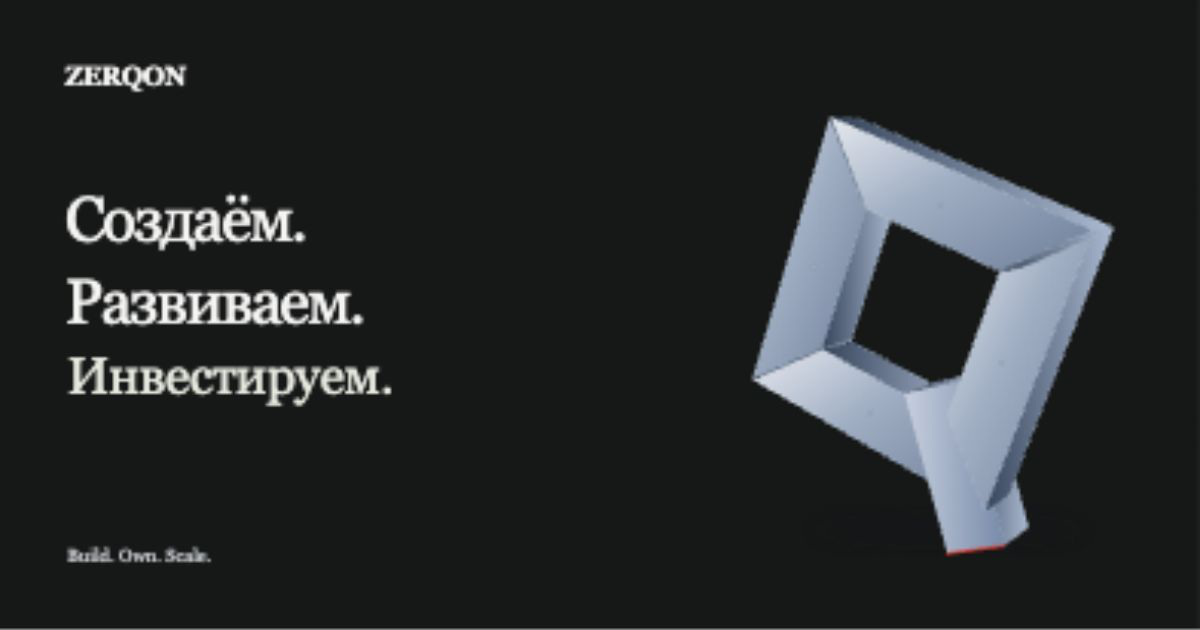
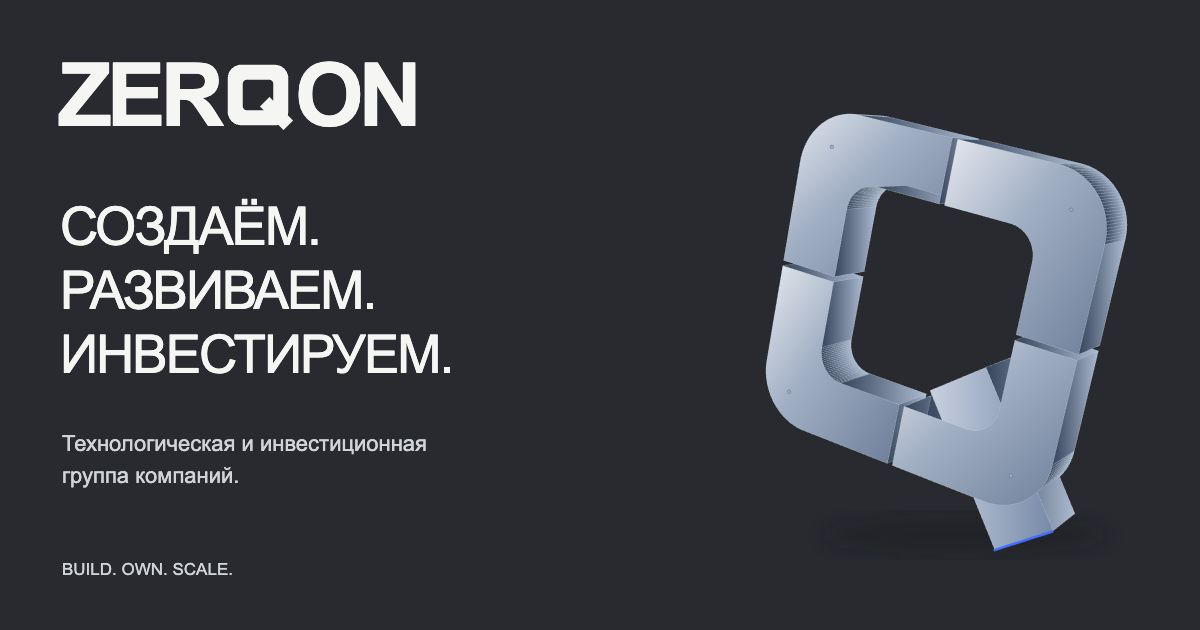
fsdfё

diff --git a/src/product-scene.ts b/src/product-scene.ts
@@ -20,6 +20,7 @@ export function initProductScene(container:HTMLElement){
  const blue=new T.MeshPhysicalMaterial({color:0x4169ff,metalness:.8,roughness:.21,clearcoat:.45});
  const orange=new T.MeshStandardMaterial({color:0xf16c32,metalness:.45,roughness:.28});
  const layers:T.Group[]=[];const hospitality=container.classList.contains('assembly-visual');
+ const detailScene=!!container.closest('.detail-hero'),baseScale=detailScene?.86:1.15,baseY=detailScene?-.3:0;
  function mesh(geometry:T.BufferGeometry,material:T.Material,parent:T.Object3D=group,x=0,y=0,z=0){const m=new T.Mesh(geometry,material);m.position.set(x,y,z);parent.add(m);return m;}
  if(hospitality){
   for(let i=0;i<4;i++){const layer=new T.Group();group.add(layer);layers.push(layer);}
@@ -33,14 +34,14 @@ export function initProductScene(container:HTMLElement){
   mesh(new T.TorusGeometry(.47,.035,16,80),silver,layers[3],0,.2,.065);mesh(new T.CircleGeometry(.39,64),dark,layers[3],0,.2,.067);mesh(new T.BoxGeometry(.028,.14,.025),orange,layers[3],0,.63,.1);
   // An engraved geometric mark rather than a fabricated product interface.
   for(let i=0;i<5;i++)mesh(new T.BoxGeometry(.045,.09+(i%2)*.05,.01),silver,layers[3],-.15+i*.075,-.93,.042);
-  group.rotation.set(-.46,.3,-.42);group.scale.setScalar(container.closest('.detail-hero')?.86:1.15);group.position.y=container.closest('.detail-hero')?-.3:0;
+  group.rotation.set(-.46,.3,-.42);group.scale.setScalar(baseScale);group.position.y=baseY;
  }else{
   const placements=[[-.85,.45,-.1,.05,-.45,-.48],[.65,-.25,.23,.55,.58,.52],[-1.9,-.95,-.35,.1,-.3,-.45]];
   placements.forEach((v,i)=>{const link=mesh(frame(i===2?1.05:1.8,i===2?1.4:2.45,.38,i===2?.21:.29,.3),i===1?blue:silver);link.position.set(v[0],v[1],v[2]);link.rotation.set(v[3],v[4],v[5]);});
   group.scale.setScalar(1.02);
  }
  // Each object has one bounded inspection sequence, independent of scroll velocity.
- const viewport=matchMedia('(min-width:1001px)');let visible=false,raf=0,disposed=false,healthy=true,elapsed=0,last=performance.now(),replaying=false,finished=false;
+ const viewport=matchMedia('(min-width:1001px)');let visible=false,raf=0,disposed=false,healthy=true,elapsed=0,last=performance.now(),replaying=false,finished=false,started=false;
  const smooth=(x:number)=>T.MathUtils.smootherstep(x,0,1);
  const button=container.closest('.project')?.querySelector<HTMLButtonElement>('.replay-motion');
  const buttonState=(busy:boolean)=>{if(!button)return;button.disabled=busy;button.setAttribute('aria-busy',String(busy));button.innerHTML=busy?'Сборка устройства…':'Повторить сборку <span aria-hidden="true">↻</span>';};buttonState(true);
@@ -48,14 +49,14 @@ export function initProductScene(container:HTMLElement){
   const dt=Math.min(.04,Math.max(.001,(now-last)/1000));last=now;const duration=hospitality?(replaying?3.6:3):1.5;elapsed=Math.min(duration,elapsed+dt);
   let p=1;if(hospitality)p=replaying?(elapsed<1?1-smooth(elapsed):elapsed<1.35?0:smooth((elapsed-1.35)/2.25)):smooth((elapsed-.4)/2.6);
   const arc=Math.sin(elapsed/duration*Math.PI);
-  if(hospitality){layers.forEach((layer,i)=>layer.position.z=i*.13+(1-p)*i*.5);group.rotation.set(-.46,.375-arc*.12,-.42);camera.position.set(.08-arc*.13,.15,10.25+arc*.2);}
+  if(hospitality){group.scale.setScalar(baseScale*(.8+.2*p));group.position.y=baseY-(1-p)*.12;layers.forEach((layer,i)=>layer.position.z=i*.13+(1-p)*i*.5);group.rotation.set(-.46,.375-arc*.12,-.42);camera.position.set(.08-arc*.13,.15,10.25+arc*.2);}
   else{group.rotation.set(0,.125-(1-smooth(elapsed/duration))*.2,0);camera.position.set(0,0,10.15+(1-smooth(elapsed/duration))*.2);}
   const phase=p<.2?'exploded':p>.995?'assembled':'assembling';if(container.dataset.phase!==phase)container.dataset.phase=phase;
   camera.lookAt(0,0,hospitality?.45:0);renderer.render(scene,camera);container.classList.add('product-webgl-ready');finished=elapsed>=duration;if(finished)buttonState(false);else request();
  }
  function request(){if(!raf&&!disposed){raf=requestAnimationFrame(draw);}}
  const replay=()=>{if(!finished)return;elapsed=0;last=performance.now();replaying=true;finished=false;buttonState(true);request();};button?.addEventListener('click',replay);
- const observer=new IntersectionObserver(entries=>{visible=entries[0].isIntersecting;if(visible){last=performance.now();request();}else{cancelAnimationFrame(raf);raf=0;}},{rootMargin:'80px'});observer.observe(container);
+ const observer=new IntersectionObserver(entries=>{visible=entries[entries.length-1].isIntersecting;if(visible){started=true;last=performance.now();request();}else{cancelAnimationFrame(raf);raf=0;container.classList.remove('product-webgl-ready');if(started&&!finished){elapsed=hospitality?(replaying?3.6:3):1.5;finished=true;container.dataset.phase='assembled';buttonState(false);}}});observer.observe(container);
  const resize=new ResizeObserver(()=>{const r=container.getBoundingClientRect();if(r.width&&r.height){renderer.setSize(r.width,r.height,false);camera.aspect=r.width/r.height;camera.updateProjectionMatrix();request();}});resize.observe(container);
  document.addEventListener('visibilitychange',request);viewport.addEventListener('change',request);addEventListener('pageshow',request);
  renderer.domElement.addEventListener('webglcontextlost',event=>{event.preventDefault();healthy=false;container.classList.remove('product-webgl-ready');cancelAnimationFrame(raf);});

diff --git a/src/scene.ts b/src/scene.ts
@@ -56,16 +56,17 @@ export function initScene(container:Element){
   tail.position.set(1.25+release*.42,-1.43-release*.18,.05+release*.2);
   camera.position.set(-.13*Math.sin(release*Math.PI),.36+release*.12,12.2+(1-opening)*.28-smooth(p)*10.6);camera.lookAt(0,.12,-release*.4);
   key.position.x=-4.9+opening*.4+release*.6;key.intensity=2.1+opening*.5;fill.intensity=1.8+opening*.4;warm.intensity=.65+release*.18;
-  renderer.render(scene,camera);container.classList.add('webgl-ready');
+  renderer.render(scene,camera);container.classList.remove('snap-reset');container.classList.add('webgl-ready');
   if(arrival<1||Math.abs(p-target.progress)+Math.abs(rx-qRest.rotation[0]-target.y*.015)+Math.abs(ry-qRest.rotation[1]-target.x*.025)>.0003)frame=requestAnimationFrame(draw);
  };
  const schedule=()=>{if(!frame&&visible&&eligible&&contextHealthy&&!document.hidden&&!disposed){frame=requestAnimationFrame(draw);}};
- const unsubscribe=subscribeHero(value=>{target=value;schedule();});
+ const unsubscribe=subscribeHero(value=>{target=value;if(value.snap){p=value.progress;container.classList.add('snap-reset');}schedule();});
  const resize=()=>{eligible=innerWidth>1000;if(!eligible){cancelAnimationFrame(frame);frame=0;container.classList.remove('webgl-ready');return;}const rect=container.getBoundingClientRect();if(!rect.width||!rect.height)return;renderer.setSize(rect.width,rect.height);camera.aspect=rect.width/rect.height;camera.updateProjectionMatrix();schedule();};
- const observer=new ResizeObserver(resize);observer.observe(container);const intersection=new IntersectionObserver(entries=>{visible=entries[0].isIntersecting;schedule();});intersection.observe(container);
+ const desktop=matchMedia('(min-width:1001px)');desktop.addEventListener('change',resize);
+ const observer=new ResizeObserver(resize);observer.observe(container);const intersection=new IntersectionObserver(entries=>{visible=entries[entries.length-1].isIntersecting;schedule();});intersection.observe(container);
  const visibility=()=>schedule();document.addEventListener('visibilitychange',visibility);resize();schedule();
  renderer.domElement.addEventListener('webglcontextlost',event=>{event.preventDefault();contextHealthy=false;cancelAnimationFrame(frame);frame=0;container.classList.remove('webgl-ready');});
  renderer.domElement.addEventListener('webglcontextrestored',()=>{contextHealthy=true;schedule();});
- const dispose=()=>{disposed=true;cancelAnimationFrame(frame);unsubscribe();observer.disconnect();intersection.disconnect();document.removeEventListener('visibilitychange',visibility);scene.traverse(object=>{if(object instanceof THREE.Mesh)object.geometry.dispose();});contactTexture.dispose();contactMaterial.dispose();material.dispose();sideMaterial.dispose();blueMaterial.dispose();grain.dispose();(floor.material as THREE.Material).dispose();environment.dispose();key.shadow.dispose();renderer.dispose();};
+ const dispose=()=>{disposed=true;cancelAnimationFrame(frame);unsubscribe();desktop.removeEventListener('change',resize);observer.disconnect();intersection.disconnect();document.removeEventListener('visibilitychange',visibility);scene.traverse(object=>{if(object instanceof THREE.Mesh)object.geometry.dispose();});contactTexture.dispose();contactMaterial.dispose();material.dispose();sideMaterial.dispose();blueMaterial.dispose();grain.dispose();(floor.material as THREE.Material).dispose();environment.dispose();key.shadow.dispose();renderer.dispose();};
  addEventListener('pagehide',event=>{if(!event.persisted)dispose();});addEventListener('pageshow',schedule);
 }

diff --git a/src/motion.ts b/src/motion.ts
@@ -6,8 +6,8 @@ export function initMotion(reduced:boolean){
  if(reduced)return;
  document.documentElement.classList.add('motion-ready');
  const hero=document.querySelector<HTMLElement>('.hero');
- if(hero){let frame=0,x=0,y=0;const fine=matchMedia('(hover:hover) and (pointer:fine) and (min-width:1001px)');
-  const update=()=>{frame=0;const rect=hero.getBoundingClientRect(),progress=Math.max(0,Math.min(1,-rect.top/(rect.height*.85)));hero.style.setProperty('--hero-p',progress.toFixed(4));setHeroState({progress,x,y});};
+ if(hero){let frame=0,x=0,y=0,lastScroll=scrollY;const fine=matchMedia('(hover:hover) and (pointer:fine) and (min-width:1001px)');
+  const update=()=>{frame=0;const rect=hero.getBoundingClientRect(),progress=Math.max(0,Math.min(1,-rect.top/(rect.height*.85)));hero.style.setProperty('--hero-p',progress.toFixed(4));const snap=Math.abs(scrollY-lastScroll)>innerHeight*.7;lastScroll=scrollY;setHeroState({progress,x,y,snap});};
   const schedule=()=>{if(!frame)frame=requestAnimationFrame(update);};
   const pointer=(event:PointerEvent)=>{if(!fine.matches||event.pointerType==='touch')return;const r=hero.getBoundingClientRect();x=Math.max(-1,Math.min(1,(event.clientX-r.left)/r.width*2-1));y=Math.max(-1,Math.min(1,(event.clientY-r.top)/r.height*2-1));schedule();};
   hero.addEventListener('pointermove',pointer,{passive:true});hero.addEventListener('pointerleave',()=>{x=0;y=0;schedule();});

diff --git a/src/main.ts b/src/main.ts
@@ -22,7 +22,7 @@ initLabTabs();
 const saveData=(navigator as Navigator&{connection?:{saveData?:boolean}}).connection?.saveData;
 const viewport=matchMedia('(min-width:1001px)');
 let sceneLoaded=false;
-const tryScene=()=>{if(sceneLoaded||saveData||reduced||!viewport.matches||path!=='/'||new URLSearchParams(location.search).get('webgl')==='off')return;const container=document.querySelector('.hero .sculpture');if(container){sceneLoaded=true;const load=new IntersectionObserver(entries=>{if(entries[0].isIntersecting){load.disconnect();import('./scene').then(m=>m.initScene(container)).catch(()=>{});}});load.observe(container);}};
+const tryScene=()=>{if(sceneLoaded||saveData||reduced||!viewport.matches||path!=='/'||new URLSearchParams(location.search).get('webgl')==='off')return;const container=document.querySelector('.hero .sculpture');if(container){sceneLoaded=true;const load=new IntersectionObserver(entries=>{if(entries.some(entry=>entry.isIntersecting)){load.disconnect();import('./scene').then(m=>m.initScene(container)).catch(()=>{});}});load.observe(container);}};
 tryScene();viewport.addEventListener('change',tryScene);
 
 if(!saveData&&!reduced&&new URLSearchParams(location.search).get('webgl')!=='off'){

diff --git a/src/design.css b/src/design.css
@@ -44,3 +44,5 @@ footer{padding:40px var(--gutter) 25px;background:#1d1f23}.footer-top{display:fl
 .project{scroll-margin-top:16px}
 .layer-glass{background:linear-gradient(125deg,#667079,#202831 52%,#414a54);border-color:#c9cdd3}.dial i{background:#ff9155}.circuit{border-color:#a5a097}.circuit i{background:#34373d;border-color:#c0b7a7}
 .hero-bottom{background:#282a2f;padding-bottom:8px}
+.sculpture.snap-reset canvas{opacity:0!important;transition:none!important}.sculpture.snap-reset .q-fallback{opacity:1!important;transition:none!important}
+@media(max-width:1000px){.replay-motion{display:none}}

diff --git a/src/scene-state.ts b/src/scene-state.ts
@@ -1,4 +1,4 @@
-export type HeroState={progress:number;x:number;y:number};
+export type HeroState={progress:number;x:number;y:number;snap?:boolean};
 let state:HeroState={progress:0,x:0,y:0};
 const listeners=new Set<(state:HeroState)=>void>();
 export const getHeroState=()=>state;

diff --git a/README.md b/README.md
@@ -1,59 +1,40 @@
 # ZERQON
 
-Русскоязычный сайт технологической и инвестиционной группы. Реконструирована главная: один статичный предметный hero, краткое описание группы, две предметные витрины, три исследовательских проекта, компактная структура направлений, основатели и контактный переход. Сохранены пятикомпонентный Q, пять проектов, 14 страниц и точные названия ZERQON Labs, ZERQON Ventures, ZERQON Technologies.
+Русскоязычный сайт технологической и инвестиционной группы. Новый графитовый интерфейс, Manrope с кириллицей, собственный геометрический Q, оригинальные предметные сцены и ровно шесть глав на главной. Данные пяти проектов, три официальных направления и 14 маршрутов сохранены.
 
-## Запуск и сборка
+## Работа с проектом
 
 - `npm install`
 - `npm run dev` — локальный просмотр.
-- `npm run build` — TypeScript, клиентская сборка, серверный рендер всех 14 статических страниц.
-- `npm run verify` — проверка маршрутов, внутренних ссылок, якорей, метаданных, статусов проектов, ресурсов и ключевых цветовых пар.
-- `npm run preview` — просмотр готового `dist`.
+- `npm run build` — TypeScript, Vite, SSR и пререндер всех страниц в `dist`.
+- `npm run verify` — маршруты, ссылки, якоря, заголовки, статусы, метаданные и цветовые пары.
+- `npm run preview` — просмотр готовой сборки.
 
-## Структура
+## Архитектура
 
-- `src/content.ts` — типизированные данные пяти проектов и направлений группы.
-- `src/render.ts` — композиции страниц и повторно используемые элементы.
-- `src/visuals.ts` — оригинальная SVG-геометрия и кодовые композиции; реальные продукты и фотографии не имитируются.
-- `src/style.css` и `src/styles/` — типографика, светлая/тёмная палитра, адаптивные композиции.
-- `src/motion.ts` — стабильные начальные состояния предметных композиций. Обработчиков прокрутки здесь нет.
-- `src/scene.ts` — пятикомпонентный Q со студийным светом; неподвижная сцена, перерисовка только при изменении размеров и восстановлении видимости.
-- `src/product-scene.ts` — неподвижные предметные сцены Chainso и Hospitality, отложенная загрузка в свободное время браузера.
-- `src/header.ts` — нативное меню без анимационной библиотеки, постоянная геометрия шапки и восстановление фокуса.
-- `src/interactions.ts` — форма и клавиатурные вкладки Labs.
-- `scripts/prerender.mjs` — статическая генерация, SEO и карта сайта.
+- `src/design.css` — единая актуальная система оформления и адаптивные композиции.
+- `src/objects.css` — резервные кодовые предметные визуализации.
+- `src/render.ts` — страницы, словесный знак и геометрическая эмблема.
+- `src/content.ts` — реальные данные, статусы и названия направлений.
+- `src/hero-geometry.ts` — общая геометрия нового пятикомпонентного Q.
+- `src/scene.ts` — Three.js: освещение, ограниченная камера, разборка и лёгкая реакция на указатель.
+- `src/scene-state.ts`, `src/motion.ts` — один источник целевого прогресса hero. Документ не закрепляется, текст не движется.
+- `src/product-scene.ts` — ограниченные предметные последовательности Chainso и аппаратной концепции, повтор сборки.
+- `src/header.ts` — навигация и нативный dialog с Escape и восстановлением фокуса.
+- `src/interactions.ts` — валидация формы, доставка/сохранение и клавиатурные вкладки Labs.
+
+Старые слои оформления отключены и сохранены в `review/rebirth/before/`. Они не участвуют в сборке. GSAP и Motion удалены из зависимостей; движение реализовано небольшими контроллерами для конкретных объектов.
 
 ## Доступность и движение
 
-Информационный контент доступен без WebGL и до запуска JavaScript. Автоматическая хореография отключена для всех пользователей. Направления и подход читаются в обычном потоке; отдельные закреплённые сцены для них удалены. На мобильных нет закреплённых сцен, курсора поверх системного и тяжёлого WebGL. При экономии трафика WebGL также не загружается. Меню использует нативный dialog, Escape и восстановление фокуса.
+Текст и маршруты пререндерены. На мобильных, при Save-Data, reduced motion и `?motion=off` тяжёлые сцены не создаются. `?webgl=off` отдельно проверяет резервную графику. Сцены не перерисовываются постоянно после завершения движения, останавливаются вне видимости и при скрытой вкладке. Меню сохраняет геометрию страницы, использует нативное управление фокусом.
 
-Ручные режимы проверки: `/?motion=off` и `/?webgl=off`.
+## Контент и форма
 
-Переходы между страницами обычные, без сдвига и растворения всего документа.
+Chainso — активный проект. «Ресторанные технологии» — рабочее название инициативы в разработке; изображённое устройство является концептуальной визуализацией. Atlas, Nexus и Orbit — сохранённые исследовательские проекты/концепции. Биографии, портреты, достижения и контакты не выдумывались.
 
-## Контент и факты
+Без обработчика форма проверяет данные и сохраняет текстовый файл, явно сообщая, что отправки не было. Для существующего сервера задайте `VITE_CONTACT_ENDPOINT` до сборки. Отправляется JSON POST: `name`, `email`, `topic`, `message`, `consent`. При ошибке данные остаются в форме. Сервер отвечает за доставку, защиту от спама и валидацию; секреты не должны попадать в VITE-переменные.
 
-Chainso — активный проект. Hospitality находится в разработке и явно обозначена как концепция. Atlas, Nexus и Orbit — исследовательские инициативы и концепции. Названия рабочие. Нет вымышленных финансовых показателей, биографий, портретов, клиентов и партнёрств. Основатели представлены именами без вымышленных портретов.
+Перед приёмом реальных обращений нужны утверждённые документы и реквизиты. `dist` — статический результат; для другого домена обновите базовый URL в `scripts/prerender.mjs`. Внешняя публикация в этом проходе не выполнялась.
 
-## Форма и доставка
-
-Без настроенного обработчика форма проверяет имя, email, сообщение и согласие, затем предлагает локальный текстовый файл. Прямо сообщает, что обращение не отправлено.
-
-Для подключения существующего сервера задайте `VITE_CONTACT_ENDPOINT` до сборки (пример — `.env.example`). Форма отправляет JSON POST: `name`, `email`, `topic`, `message`, `consent`. HTTP 2xx означает успешный приём. При других ответах или тайм-ауте в 15 секунд показывается русское сообщение, данные не очищаются. Кнопка блокируется на время отправки.
-
-На сервере обязательны валидация, ограничение частоты, защита от спама, сервис доставки и корректный CORS. Секреты хранить только на сервере, не в переменных VITE_. До коммерческого запуска необходимо утвердить политику обработки данных и заполнить юридические реквизиты.
-
-## Публикация
-
-`dist` — готовый статический результат. Для другого домена измените базовый URL в `scripts/prerender.mjs`. Сервер должен поддерживать directory index; неизвестные маршруты должны получать `404.html` со статусом 404. Существующий идентификатор Sites сохранён в `.openai/hosting.json`. Исходники не отправлены во внешний репозиторий: предыдущее ограничение разрешений на публикацию остаётся в силе.
-
-Результаты аудита и проверки — `QUALITY.md`; снимки до и после — `review/reconstruction/before` и `review/reconstruction/after`.
-
-### Предметные сцены
-`src/product-scene.ts` создаёт оригинальные концептуальные объекты Chainso и Hospitality. Прокрутка и движение указателя не меняют позы предметов. Сцены лениво включаются на экранах от 1001 px, при обычном режиме движения и без Save-Data. Лёгкая CSS-композиция остаётся резервной. Отчёт последнего прохода: `review/flagship/REVIEW.md`.
-
-### Актуальная визуальная система
-Полная смена оформления: `src/styles/rebuild.css`, оригинальный точечный словесный знак в `src/render.ts`. Arial / Georgia / Courier New; молочные поверхности, чёрные сцены, красный акцент. Прежний Manrope не загружается. Актуальные проверки и снимки: `review/rebuild/REVIEW.md`.
-
-### Стабильность и читаемость
-`src/styles/finish.css` задаёт минимальный размер подписей 14 px, основной текст 17–20 px и постоянные размеры элементов. Удалены GSAP-хореография, движущиеся маски, закрепление hero и сквозные переходы страниц. Актуальная проверка: `review/finish/REVIEW.md`.
+Актуальные снимки и результаты: `review/rebirth/REVIEW.md`.

diff --git a/QUALITY.md b/QUALITY.md
@@ -1,57 +1,12 @@
-# ZERQON — проверка реконструкции
+# Актуальная проверка ZERQON
 
-18 октября 2026. Работа выполнена в существующем проекте, без нового сайта. Сохранены 14 маршрутов, пять проектов, основатели и три официальных направления.
+Последний полный проход: [review/rebirth/REVIEW.md](review/rebirth/REVIEW.md).
 
-## Структурный результат
+- Единая новая система оформления, Manrope, собственный модульный Q.
+- Шесть глав на главной, пять проектов и три официальных направления.
+- Ограниченные предметные последовательности без закрепления документа.
+- 112 сочетаний страницы/ширины и 28 дополнительных проверок production.
+- Сборка и verify проходят. Ошибок переполнения, микротекста и проверенных цветовых пар не выявлено.
+- Реальные FPS и Lighthouse не измерялись. Доставка формы не подключена.
 
-При одинаковом viewport 1440×1000 длина главной сократилась с 11 779 до 5 199 px — на 56%. Это измерение DOM, а не оценка на глаз.
-
-- Отдельная закреплённая сцена Build / Own / Scale удалена. Подход включён в краткое описание группы.
-- Портфель: две предметные витрины плюс три исследовательские записи. Статусы и ссылки видны без ожидания анимации.
-- Три направления показаны вместе. Закреплённый модуль и три длинные главы удалены. Названия ZERQON Labs, ZERQON Ventures, ZERQON Technologies сохранены дословно.
-- Основатели представлены именами и небольшими инициалами; больших заглушек-портретов нет.
-- Контактный переход, подвал и внутренние страницы уплотнены. Удалены повторяющиеся формулировки и ссылка на текущую страницу.
-- Сохранены контент и стадии проектов; Chainso не приписаны неизвестные функции. Концепты не представлены действующими компаниями.
-
-## Hero, навигация и движение
-
-Пятичастный Q сохранён. Уточнены ракурс и кадрирование, добавлены небольшие утопленные крепления, мягкая контактная тень; прямую тень ослабили. Последовательная разборка деталей, изменение света и инерция указателя работают через единый прогресс. Диапазон закрепления — 240 px вместо прежних 420 px при 1440×1000. Hero — единственная закреплённая сцена главной.
-
-Заголовок теперь «Создаём компании. Развиваем будущее.». Поддерживающий текст конкретно объясняет деятельность группы. Шапка перестроена: логотип, навигация от левого края общей сетки, контактное действие справа; высота 80 → 64 px при прокрутке. Мобильное меню сохраняет native dialog и возврат фокуса.
-
-Направления собирают свои иллюстрации один раз при входе в область видимости. Текст остаётся виден. Из кода и стилей удалены неиспользуемые кинетические главы, радиальная схема и старый контроллер направлений. Основной клиентский блок ~15 КБ gzip; Three.js загружается отдельно (~133 КБ gzip).
-
-## Референсы и второй просмотр
-
-Реально открыты Apple, Nothing, Linear, Stripe и Vercel, изучены скриншоты и доступные взаимодействия. Ограничения просмотра и выводы — [REFERENCES.md](review/reconstruction/REFERENCES.md). В частности, у Apple не загрузилась часть медиа, а мобильный снимок Nothing оказался некорректным. Копирования чужих макетов и ресурсов нет.
-
-Десять конкретных слабостей второго просмотра исправлены в коде — [SECOND-REVIEW.md](review/reconstruction/SECOND-REVIEW.md). Дополнительно устранён пустой участок под ограниченным по высоте hero на высоких экранах; крупная сцена следует высоте viewport.
-
-## Проверки готовой сборки
-
-- TypeScript, production build и verify — успешно. Проверены 14 маршрутов, один h1 на страницу, ru, ссылки, якоря, SEO, ресурсы, 404, статусы и точные названия направлений.
-- 154 проверки разметки: 14 страниц × 320, 375, 390, 430, 768, 1024, 1280, 1440, 1728, 1920, 2560 px. Переполнения относительно clientWidth нет. Данные: review/reconstruction/responsive.json.
-- Просмотрены desktop и mobile, главная и основные внутренние страницы, начальный и разобранный Q. При 2560 px снимок браузера ограничен шириной доступной поверхности: полная ширина дополнительно проверялась по DOM, скриншот не выдаётся за полный кадр.
-- Вычисленные размер и контраст текстовых элементов проверены на всех 14 страницах при 1440 и 390 px. В финальном проходе сканирование не обнаружило текста меньше 13 px или контрастных ошибок среди проверяемых элементов. Это CSS-аудит с визуальным просмотром градиентов, а не формальная сертификация WCAG. Данные: review/reconstruction/readability.json.
-- Контраст ключевых пар: основной текст 13.88:1; вторичный 8.82:1; приглушённый на светлой поверхности 4.83:1; белый на кобальте 6.14:1; светло-синий 7.96:1. Граница управления на светлой графитовой поверхности — 3.22:1.
-- Проверен реальный переход из портфеля в Chainso и возврат назад после полной загрузки страниц.
-- Мобильное меню закрывается Escape после короткой анимации, фокус возвращается к кнопке. На мобильном canvas отсутствует.
-- End переключает Labs на этап «Компания» и обновляет панель.
-- Пустая форма показывает русскую ошибку; валидный тест создаёт локальный файл и явно сообщает, что отправки не было. Новые категории обращения работают через обычный select.
-- В motion=off все пять проектов и три направления доступны, canvas и закреплённые элементы отсутствуют. После просмотра всей страницы исправлено статическое состояние Labs: все пять пластин сохраняют отдельные трансформации и без запуска GSAP.
-- В журнале чистой production-вкладки ошибок и предупреждений не обнаружено.
-
-## Ограничения
-
-Публикация не выполнялась; готовая локальная сборка находится в dist. Доставка обращений требует VITE_CONTACT_ENDPOINT и сервера, юридические документы требуют подтверждённых реквизитов. Lighthouse, полевые Core Web Vitals и стабильные 60 fps на физических устройствах не измерялись. Сборщик сообщает стандартное предупреждение о размере отдельного динамического блока Three.js.
-
-Снимки до и после: review/reconstruction/before и review/reconstruction/after. Предыдущий отчёт сохранён в review/reconstruction/QUALITY-RECOVERY.md.
-
-## Flagship — 18 октября 2026
-Актуальный отчёт: `review/flagship/REVIEW.md`. Добавлены оригинальные PBR-сцены Chainso и Hospitality с отложенной загрузкой, новый первый экран и пространственная траектория камеры Q. 14 маршрутов проверены в production, 56 сочетаний маршрута/ширины — на переполнение и статический режим. Сборка и verify проходят. Для оценки производительности на реальных устройствах нужны отдельные замеры; доставка формы пока не настроена.
-
-## Полная смена системы
-Актуальный проход: `review/rebuild/REVIEW.md`. Проверены 70 сочетаний маршрутов/ширин; сборка и проверка новой палитры проходят. Предыдущие отчёты описывают прежнее оформление.
-
-## Стабильность и читаемость — актуально
-`review/finish/REVIEW.md`: удалены прокруточная хореография, постоянные циклы 3D и сдвиги страниц. Минимум информационного текста 14 px. 70 сочетаний страниц/ширин и 28 дополнительных production-проверок без выявленных переполнений и мелкого текста. Меню и вкладки проверены на постоянство геометрии. Сборка и verify проходят; fps не измерялся.
+Предыдущие отчёты в review/ относятся к отклонённым версиям и не описывают текущую систему.

diff --git a/review/rebirth/REVIEW.md b/review/rebirth/REVIEW.md
@@ -1,0 +1,43 @@
+# ZERQON — COMPLETE REBIRTH
+
+Полностью заменена система визуального оформления. Старые десять слоёв CSS архивированы в before/ и отключены. Работают два файла: design.css и objects.css. Manrope с кириллицей, предварительная загрузка двух основных языковых наборов, графит #282A2F / #34373D / #1D1F23, вторичный текст #D0D3D8. Синий, красный и тёплый оранжевый используются по роли. Кнопка на синем использует чуть более тёмный #3C62F2 для AA.
+
+## Референсы
+
+Повторно открыты и визуально изучены https://fi.nothing.tech/, https://fi.nothing.tech/products/headphone-1-pro, https://www.apple.com/, https://www.apple.com/iphone-18-pro/. Проверены реальная мобильная главная Nothing при 390×844 и её меню. Снимки в references/.
+
+Применены: предмет как основной носитель композиции, крупный план, материальный контраст, короткие подписи, чёткая иерархия и ограниченные предметные последовательности. Не использованы чужие логотипы, изображения, графика или код. Словесный знак с собственной Q и геометрия объектов оригинальны.
+
+## Реализация
+
+Главная содержит ровно hero, компанию, проекты, направления, основателей и контактную форму. Гигантский словесный знак, новый Q из четырёх скруглённых модулей и диагональной перемычки, холодное освещение, сатиновый металл. Камера приближается к раскрываемой геометрии, документ при этом прокручивается обычно. Указатель влияет на перспективу в пределах нескольких градусов. При резком переходе по якорю поза синхронизируется сразу, без пролёта из старой позиции.
+
+Chainso получает отдельный синий предметный кадр с короткой инспекцией. Ресторанная инициатива названа по новому брифу, статус сохранён. Устройство раскрывается и собирается в ограниченной последовательности; повтор доступен после завершения, состояние занятости видно. Масштаб раскрытого состояния ограничен, все части остаются в кадре. Сцены приостанавливаются вне видимости и не имеют постоянного декоративного цикла. Вне экрана возвращается резервная композиция: полноэкранные снимки и повторный вход не зависят от сохранения буфера WebGL. Покинутая незавершённая предметная последовательность переходит в финальное состояние.
+
+На мобильных используются лёгкие композиции, текст и кнопка первого экрана размещены в нормальном потоке. Манроп не заменяется антиквой. Старые точечный логотип, светлые секции и плавающая капсула удалены. В контакте находится сама форма. Пять проектов, основатели и три точных официальных названия направлений сохранены.
+
+## Второй критический проход: десять слабостей и исправления
+
+1. Накопленные взаимоисключающие стили — заменены одной системой, архив отключён от импорта.
+2. Слишком общий словесный знак — внедрена собственная геометрическая Q в знак и логотипы.
+3. Старый угловатый объект — построены скруглённые модульные контуры, увеличена детализация кривых.
+4. Избыточно заметная фактура металла — уменьшен контраст и частота шероховатости.
+5. Мобильные жёсткие координаты — заголовок, описание и CTA переведены в нормальный поток; кнопка видна на основном мобильном экране.
+6. Унаследованная 8 px подпись — удалена, остальные информационные подписи не меньше 14 px.
+7. Недостаточный контраст синей кнопки — фон скорректирован до 4.97:1 с белым текстом.
+8. Переполнение юридического заголовка при 320 px — исправлены размер и перенос.
+9. Аппаратная сцена и повтор — введены понятное занятое состояние, защита от перезапуска и безопасный масштаб раскрытых частей.
+10. Вторичные графические мотивы и переход — абстрактные кольца Atlas заменены оригинальной складчатой A, подпись hero защищена от наложения приближающейся скульптуры. Синхронизация резких якорных переходов убирает ненужный пролёт камеры. В заключительном полном снимке обнаружена очистка внеэкранного буфера WebGL: вместо пустых витрин теперь включается резервный кадр до новой прорисовки.
+
+## Проверки
+
+- Production build и npm run verify проходят: TypeScript, клиентская сборка, SSR, пререндер, 14 маршрутов, ссылки/якоря, h1, статусы, 404, метаданные и ресурсы.
+- 112 сочетаний: 14 маршрутов × 320/375/390/430/768/1024/1440/1920 px. Нет выявленных переполнений, информационного текста меньше 14 px и ошибок контраста. Ровно один h1; на главной ровно шесть глав; motion=off не создаёт canvas. final-audit.json.
+- Дополнительные 28 проверок готовой сборки при 375 и 1440 px: production.json.
+- Визуально проверены все главы главной, отдельные about / hospitality / labs / ventures / technologies, мобильные главная, меню, портфель и аппаратная страница. Снимки в after/.
+- Проверены раскрытие Q при прокрутке без закрепления hero и движения текста, обе фазы повторной аппаратной последовательности, меню направлений с Escape, мобильное меню и форма на главной. Заключительный вход по глубокой ссылке и возврат наверх: hero webgl-ready, scroll 0, transform текста none, шесть глав, журнал без ошибок/предупреждений (clean-launch.json).
+- Пустая форма показывает ошибку и фокусирует поле. Тестовое корректное обращение сохраняется локально с явным сообщением, что отправки не было.
+
+DOM-проверка не заменяет полный аудит WCAG. FPS, Lighthouse и реальные мобильные устройства не измерялись. Three.js остаётся отдельным ленивым модулем около 518 KB / 131 KB gzip, Vite предупреждает о размере. Основной JS около 37 KB / 12 KB gzip; CSS около 51 KB / 14.5 KB gzip вместо прежних 127 KB. Сборка не зависит от GSAP или Motion.
+
+Доставка формы не настроена, юридические документы остаются честно обозначенными как готовящиеся. Внешняя публикация не выполнялась.
